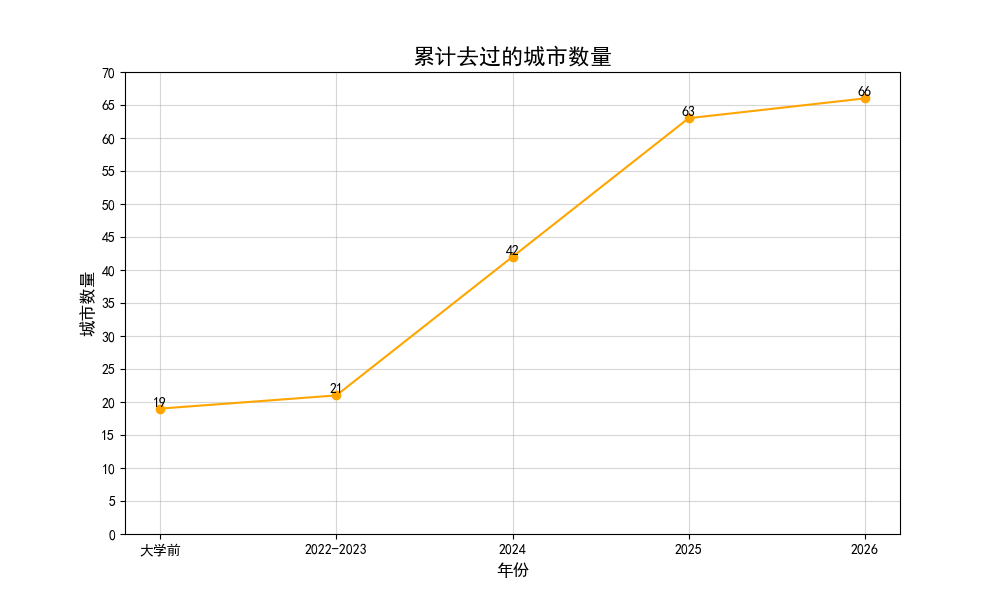
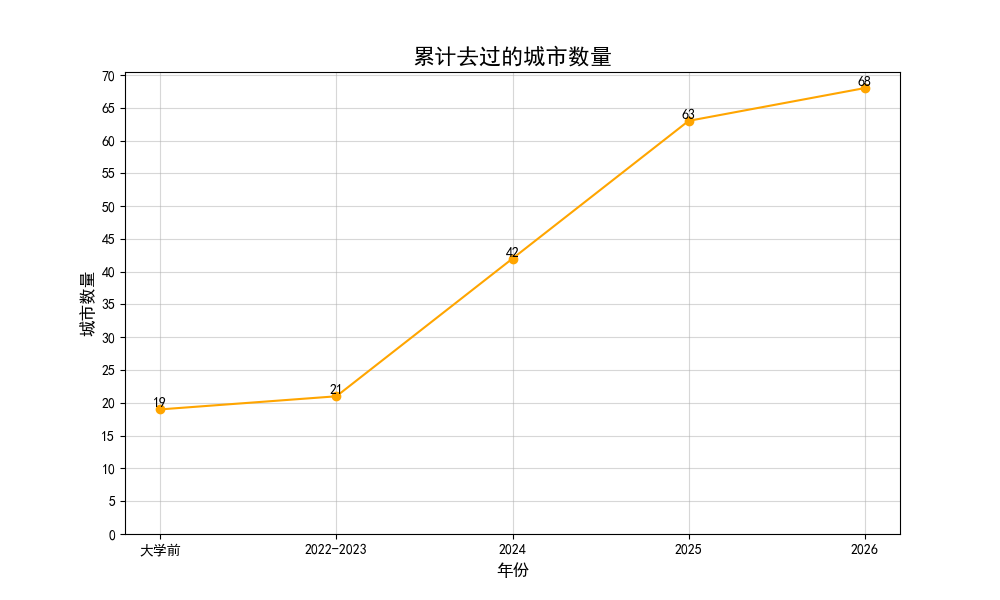
commit

Changed region(s): [[0.093, 0.12, 0.899, 0.69], [0.124, 0.72, 0.899, 0.75], [0.093, 0.12, 0.124, 0.18]]

diff --git a/draw.py b/draw.py
@@ -7,8 +7,8 @@ rcParams['axes.unicode_minus'] = False   # 解决负号显示问题
 
 # 数据
 years = ["大学前", "2022-2023", "2024", "2025", "2026"]
-new_cities = [19, 2, 21, 21, 3]  # 新到的城市
-cumulative_cities = [19, 21, 42, 63, 66]  # 累计去过的城市
+new_cities = [19, 2, 21, 21, 5]  # 新到的城市
+cumulative_cities = [19, 21, 42, 63, 68]  # 累计去过的城市
 
 # 创建图形并绘制新到的城市折线图
 plt.figure(figsize=(10, 6))

diff --git a/游记字数统计.md b/游记字数统计.md
@@ -1,12 +1,12 @@
 # 游记类别字数统计
 
-统计时间： 2026-02-02 23:22:52
+统计时间： 2026-02-09 19:41:57
 
 ## 总体统计
 
 - 文章总数： 22 篇
-- 总字数： 77.5k (77539 字)
-- 平均字数： 3524 字/篇
+- 总字数： 77.6k (77639 字)
+- 平均字数： 3529 字/篇
 
 ## 文章详情
 
@@ -21,7 +21,7 @@
 | 7 | “人生短短几个秋啊，不醉不罢休”——在洛阳、郑州的中秋 | 4k | 2024-09-18 | 2026-02-01 | [查看文章](https://kangaroogao.com/posts/4186/) |
 | 8 | 潮汕初探 | 1.2k | 2024-09-19 | 2025-11-13 | [查看文章](https://kangaroogao.com/posts/52b1/) |
 | 9 | 今古一相接，长歌怀旧游——国庆出游杂记 | 4.7k | 2024-10-06 | 2026-01-19 | [查看文章](https://kangaroogao.com/posts/786/) |
-| 10 | 行旅杂记 | 5.9k | 2024-11-14 | 2026-01-29 | [查看文章](https://kangaroogao.com/posts/9e84/) |
+| 10 | 行旅杂记 | 6k | 2024-11-14 | 2026-02-09 | [查看文章](https://kangaroogao.com/posts/9e84/) |
 | 11 | 清明游记：枣庄、徐州、淮北 | 6.3k | 2025-04-09 | 2025-11-13 | [查看文章](https://kangaroogao.com/posts/b857/) |
 | 12 | 小城小记1：六安 | 1.5k | 2025-06-23 | 2025-11-13 | [查看文章](https://kangaroogao.com/posts/83be/) |
 | 13 | 北京行迹 | 6k | 2025-07-31 | 2026-01-31 | [查看文章](https://kangaroogao.com/posts/1502/) |
@@ -32,8 +32,8 @@
 | 18 | 小城小记3：寿县、阜阳、周口、漯河、驻马店、信阳、孝感 | 7.1k | 2025-10-02 | 2026-01-31 | [查看文章](https://kangaroogao.com/posts/e4f4/) |
 | 19 | 天津初探 | 2.1k | 2025-11-22 | 2025-12-05 | [查看文章](https://kangaroogao.com/posts/ec8e/) |
 | 20 | 雄安印象 | 1k | 2025-12-09 | 2025-12-13 | [查看文章](https://kangaroogao.com/posts/674c/) |
-| 21 | 访山海关 | 2.5k | 2026-01-15 | 2026-02-02 | [查看文章](https://kangaroogao.com/posts/7171/) |
-| 22 | 小城小记4：新乡 | 1.1k | 2026-01-15 | 2026-02-01 | [查看文章](https://kangaroogao.com/posts/2661/) |
+| 21 | 访山海关 | 2.5k | 2026-01-15 | 2026-02-03 | [查看文章](https://kangaroogao.com/posts/7171/) |
+| 22 | 小城小记4：新乡 | 1.1k | 2026-01-15 | 2026-02-03 | [查看文章](https://kangaroogao.com/posts/2661/) |
 
 ## 字数分布
 
@@ -49,7 +49,7 @@
 |------|----------|------|----------|----------|------|
 | 1 | 冬日访岳阳楼 | 939 | 2024-01-19 | 2025-04-10 | [查看文章](https://kangaroogao.com/posts/1fb2/) |
 | 2 | 雄安印象 | 1k | 2025-12-09 | 2025-12-13 | [查看文章](https://kangaroogao.com/posts/674c/) |
-| 3 | 小城小记4：新乡 | 1.1k | 2026-01-15 | 2026-02-01 | [查看文章](https://kangaroogao.com/posts/2661/) |
+| 3 | 小城小记4：新乡 | 1.1k | 2026-01-15 | 2026-02-03 | [查看文章](https://kangaroogao.com/posts/2661/) |
 | 4 | 武汉岳阳行记 | 1.1k | 2024-03-02 | 2025-10-18 | [查看文章](https://kangaroogao.com/posts/6385/) |
 | 5 | 潮汕初探 | 1.2k | 2024-09-19 | 2025-11-13 | [查看文章](https://kangaroogao.com/posts/52b1/) |
 | 6 | 小城小记1：六安 | 1.5k | 2025-06-23 | 2025-11-13 | [查看文章](https://kangaroogao.com/posts/83be/) |
@@ -57,15 +57,15 @@
 | 8 | 黄山西递行记 | 1.9k | 2024-03-09 | 2025-10-21 | [查看文章](https://kangaroogao.com/posts/e08f/) |
 | 9 | 天津初探 | 2.1k | 2025-11-22 | 2025-12-05 | [查看文章](https://kangaroogao.com/posts/ec8e/) |
 | 10 | 回家路上1——杭州、宁波、南昌、郴州、韶关 | 2.3k | 2024-08-06 | 2025-11-13 | [查看文章](https://kangaroogao.com/posts/bb58/) |
-| 11 | 访山海关 | 2.5k | 2026-01-15 | 2026-02-02 | [查看文章](https://kangaroogao.com/posts/7171/) |
+| 11 | 访山海关 | 2.5k | 2026-01-15 | 2026-02-03 | [查看文章](https://kangaroogao.com/posts/7171/) |
 | 12 | 2025年寒假行记 | 2.5k | 2025-08-05 | 2025-12-25 | [查看文章](https://kangaroogao.com/posts/8e50/) |
 | 13 | 小城小记2：滁州、马鞍山 | 2.6k | 2025-09-14 | 2025-12-25 | [查看文章](https://kangaroogao.com/posts/cea0/) |
 | 14 | “人生短短几个秋啊，不醉不罢休”——在洛阳、郑州的中秋 | 4k | 2024-09-18 | 2026-02-01 | [查看文章](https://kangaroogao.com/posts/4186/) |
 | 15 | 今古一相接，长歌怀旧游——国庆出游杂记 | 4.7k | 2024-10-06 | 2026-01-19 | [查看文章](https://kangaroogao.com/posts/786/) |
 | 16 | 江南江北送君归——从扬州到镇江 | 5k | 2024-05-03 | 2025-11-13 | [查看文章](https://kangaroogao.com/posts/8176/) |
 | 17 | 长安一片月，吹梦到西洲——西安一游，兼记咸阳运城 | 5.4k | 2024-07-14 | 2026-02-01 | [查看文章](https://kangaroogao.com/posts/439b/) |
-| 18 | 行旅杂记 | 5.9k | 2024-11-14 | 2026-01-29 | [查看文章](https://kangaroogao.com/posts/9e84/) |
-| 19 | 北京行迹 | 6k | 2025-07-31 | 2026-01-31 | [查看文章](https://kangaroogao.com/posts/1502/) |
+| 18 | 北京行迹 | 6k | 2025-07-31 | 2026-01-31 | [查看文章](https://kangaroogao.com/posts/1502/) |
+| 19 | 行旅杂记 | 6k | 2024-11-14 | 2026-02-09 | [查看文章](https://kangaroogao.com/posts/9e84/) |
 | 20 | 清明游记：枣庄、徐州、淮北 | 6.3k | 2025-04-09 | 2025-11-13 | [查看文章](https://kangaroogao.com/posts/b857/) |
 | 21 | 小城小记3：寿县、阜阳、周口、漯河、驻马店、信阳、孝感 | 7.1k | 2025-10-02 | 2026-01-31 | [查看文章](https://kangaroogao.com/posts/e4f4/) |
 | 22 | 回家路上2——泾县、福州、龙岩、赣州 | 10.5k | 2025-08-05 | 2026-01-08 | [查看文章](https://kangaroogao.com/posts/99aa/) |

diff --git a/source/_posts/行旅杂记.md b/source/_posts/行旅杂记.md
@@ -144,7 +144,7 @@ date: 2024-11-15 00:00:00
 - 直辖市
   - 北京、上海、天津
 - 自治区
-  - 广西（2/14）：北海、桂林
+  - 广西（3/14）：北海、桂林、桂林
 
 <figure style="text-align: center;"> <img src="https://s3.bmp.ovh/imgs/2025/11/22/3900b4e585bc0584.jpg" alt="旅行足迹" style="display: block; margin-left: auto; margin-right: auto;width: 80%;"></figure>
 
@@ -250,8 +250,9 @@ date: 2024-11-15 00:00:00
 ||武汉|祁阳|G1479|641|
 ||祁阳|永州|G1503|33|
 ||永州|零陵|K1803|26|
+||永州|柳州|D3969|363|
 
-- 小计：98次（普铁24次，高铁/动车74次），39354km（普铁12848km，高铁/动车26506km），88个车站，47个城市
+- 小计：99次（普铁24次，高铁/动车75次），39717km（普铁12848km，高铁/动车26869km），89个车站，48个城市
 
 <figure style="text-align: center;"> <img src="https://s3.bmp.ovh/imgs/2025/11/07/76becc2b0bfcc12f.jpg" alt="铁路线路" style="display: block; margin-left: auto; margin-right: auto;width: 100%;"></figure>
 
@@ -305,6 +306,7 @@ date: 2024-11-15 00:00:00
 |秦皇岛|山海关|
 |新乡|新乡、卫辉、新乡东|
 |永州|祁阳、永州、零陵|
+|柳州|柳州|
 
 航班记录如下[^19]：
 | 时间       | 出发地         | 目的地         | 航班号| 机型|里程（km） |

diff --git a/renew.md b/renew.md
@@ -587,4 +587,7 @@
    3. 山海关游记
 
 2.2
-   1. 加永州铁路
+   1. 加永州
+
+2.3 
+   1. 加柳州
